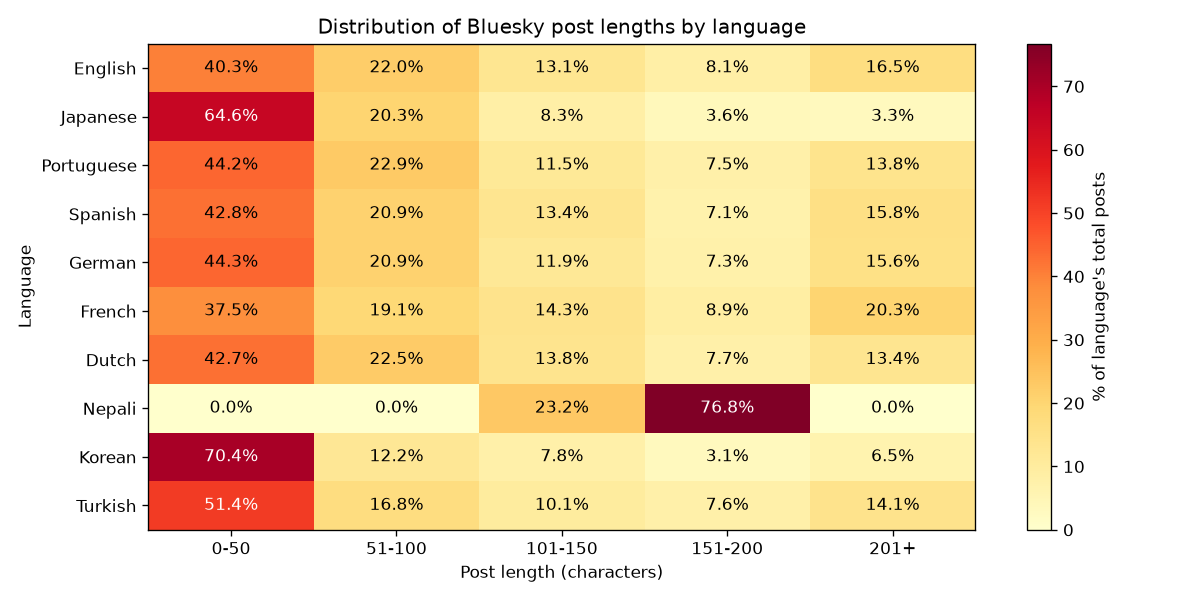
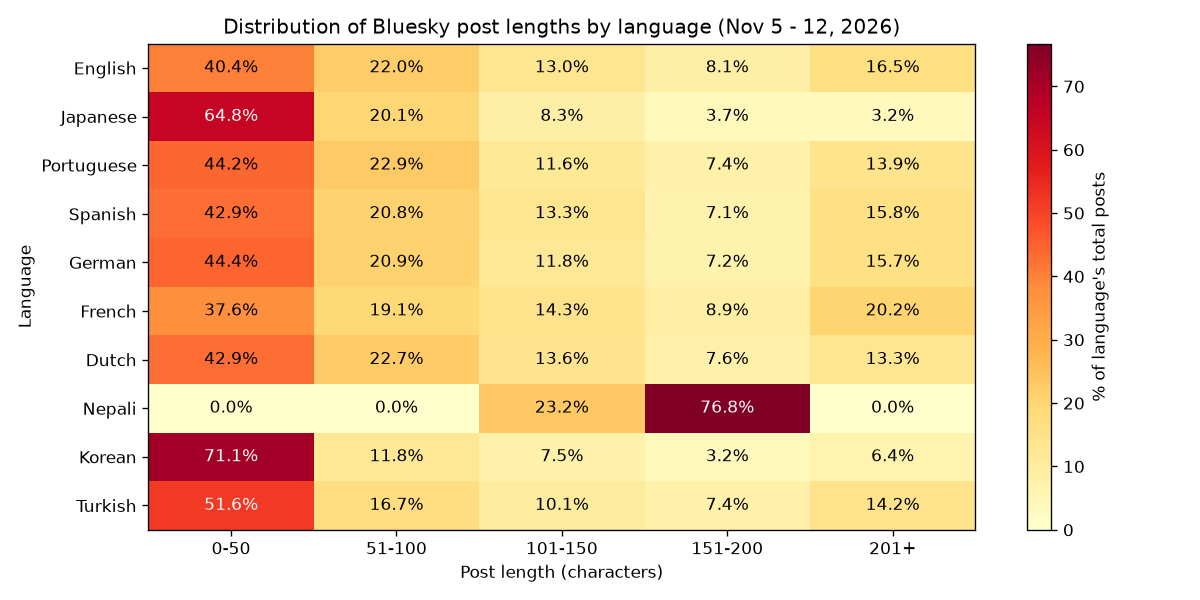
updated chart

diff --git a/project3/flow.py b/project3/flow.py
@@ -123,7 +123,7 @@ def chart():
     plt.yticks(range(len(top_langs)), lang_labels)
     plt.xlabel("Post length (characters)")
     plt.ylabel("Language")
-    plt.title("Distribution of Bluesky post lengths by language")
+    plt.title("Distribution of Bluesky post lengths by language (Nov 5 - 12, 2026)")
 
     # Add percentages inside each square
     for i in range(len(top_langs)):
